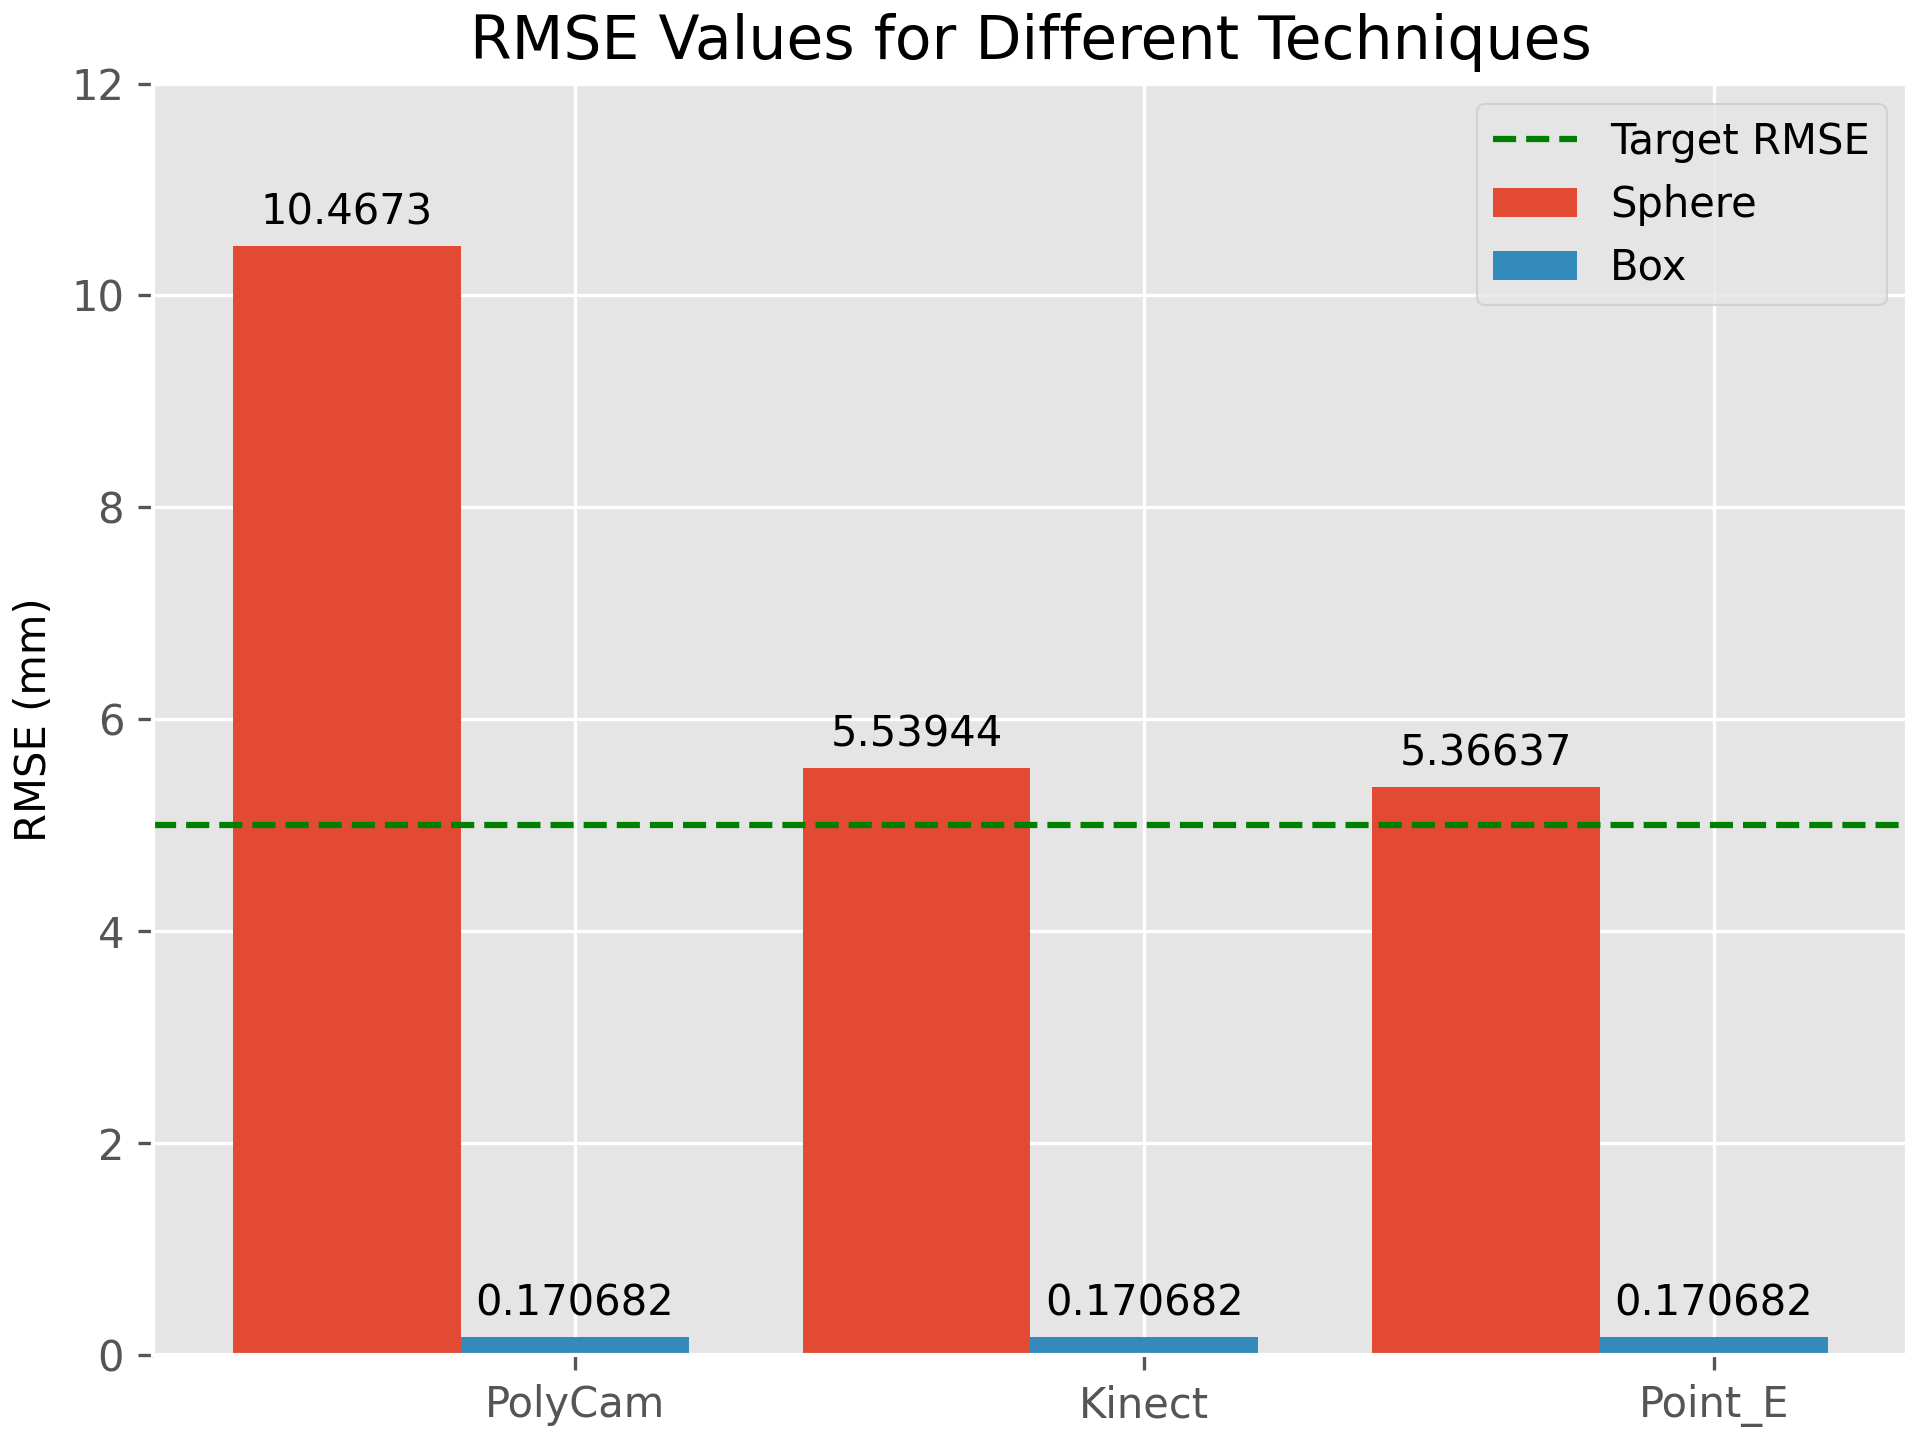
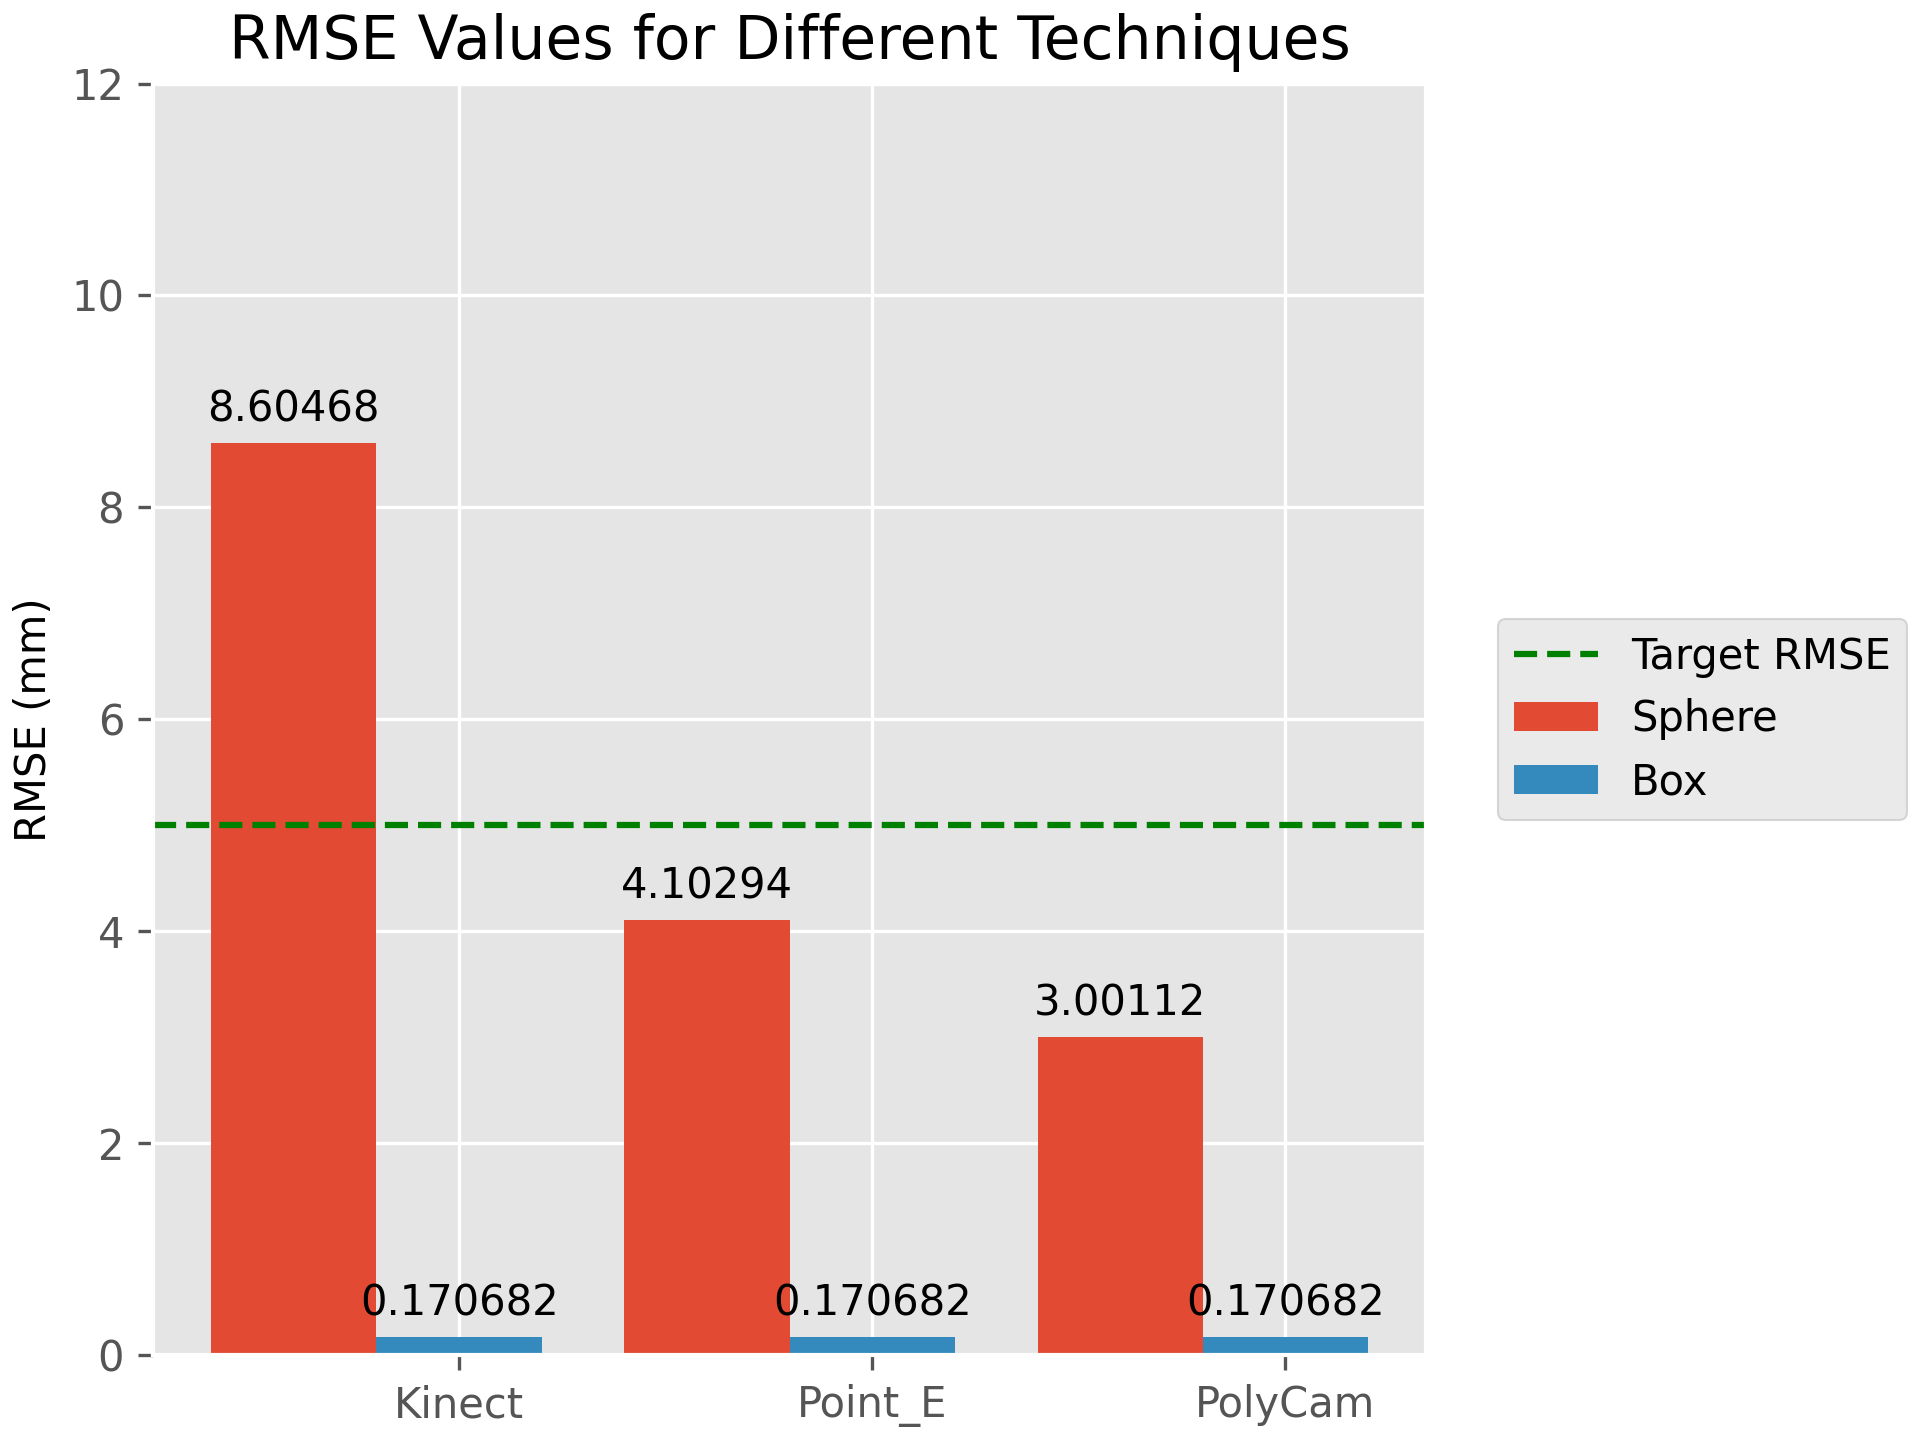
Fixed RMSE and STD value errors and Finished Plotting

diff --git a/Dissertation/Eval/Plotting.py b/Dissertation/Eval/Plotting.py
@@ -30,7 +30,7 @@ def plot_technique_rmse(data: dict, target_rmse: float = 0.5, bar_width: float =
 
     # Prepare the data
     techniques = SCANNING_TECHNIQUES
-    x = np.arange(len(techniques), step=1)
+    x = np.arange(0, len(techniques), step=1)
     rmses = {
         "sphere": [data[technique]["sphere"]["rmse"] for technique in techniques],
         "box": [data[technique]["box"]["rmse"] for technique in techniques]
@@ -61,7 +61,7 @@ def plot_technique_rmse(data: dict, target_rmse: float = 0.5, bar_width: float =
     return fig
 
 
-def plot_technique_std(data: dict, x_gap_size: float, y_gap_size: float) -> Figure:
+def plot_technique_std(data: dict, x_gap_size: float, y_gap_size: float, cap_size: int = 0) -> Figure:
     """
     Plots the standard deviation for each technique.
     The data should be in the following format:
@@ -94,8 +94,13 @@ def plot_technique_std(data: dict, x_gap_size: float, y_gap_size: float) -> Figu
     for technique in techniques:
 
         stds.append(data[technique]["sphere"]["std"])
-        lower.append(data[technique]["sphere"]["min"])
-        upper.append(data[technique]["sphere"]["max"])
+
+        lower.append((data[technique]["sphere"]["std"] -
+                     data[technique]["sphere"]["min"]))
+
+        upper.append((data[technique]["sphere"]["max"] -
+                     data[technique]["sphere"]["std"]))
+
         means.append(data[technique]["sphere"]["mean"])
 
     print(f'STDS: {stds}')
@@ -111,7 +116,7 @@ def plot_technique_std(data: dict, x_gap_size: float, y_gap_size: float) -> Figu
         (len(techniques) * x_gap_size),
         step=x_gap_size
     )
-    ax.set_xlim(0, np.max(xTicks) + (x_gap_size/2))
+    ax.set_xlim(0, (np.max(xTicks) + (x_gap_size/2)).astype(float))
     ax.set_xticks(xTicks)
     ax.set_xticklabels(techniques)
 
@@ -120,16 +125,28 @@ def plot_technique_std(data: dict, x_gap_size: float, y_gap_size: float) -> Figu
         x=xTicks,
         y=stds,
         yerr=[lower, upper],
+        label='Standard Deviation',
+        capsize=cap_size,
         fmt='o',
-        capsize=4,
-        capthick=1,
         ecolor='blue',
+    )
+
+    # Legend
+    handles, labels = ax.get_legend_handles_labels()
+
+    handles = [handles[0][1], handles[0][0], handles[0][1]]
+    labels = ["Max Distance", labels[0], "Min Distance"]
+
+    ax.legend(
+        handles,
+        labels,
+        loc='center left',
+        bbox_to_anchor=(1.04, 0.5),
     )
 
     # Set Table Titles
     ax.set_xlabel('Technique')
-    ax.set_ylabel('Standard Deviation (mm)')
+    ax.set_ylabel('Distance (mm)')
     ax.set_title('Standard Deviation for Different Techniques')
-    ax.legend(loc='upper right')
 
     return fig
